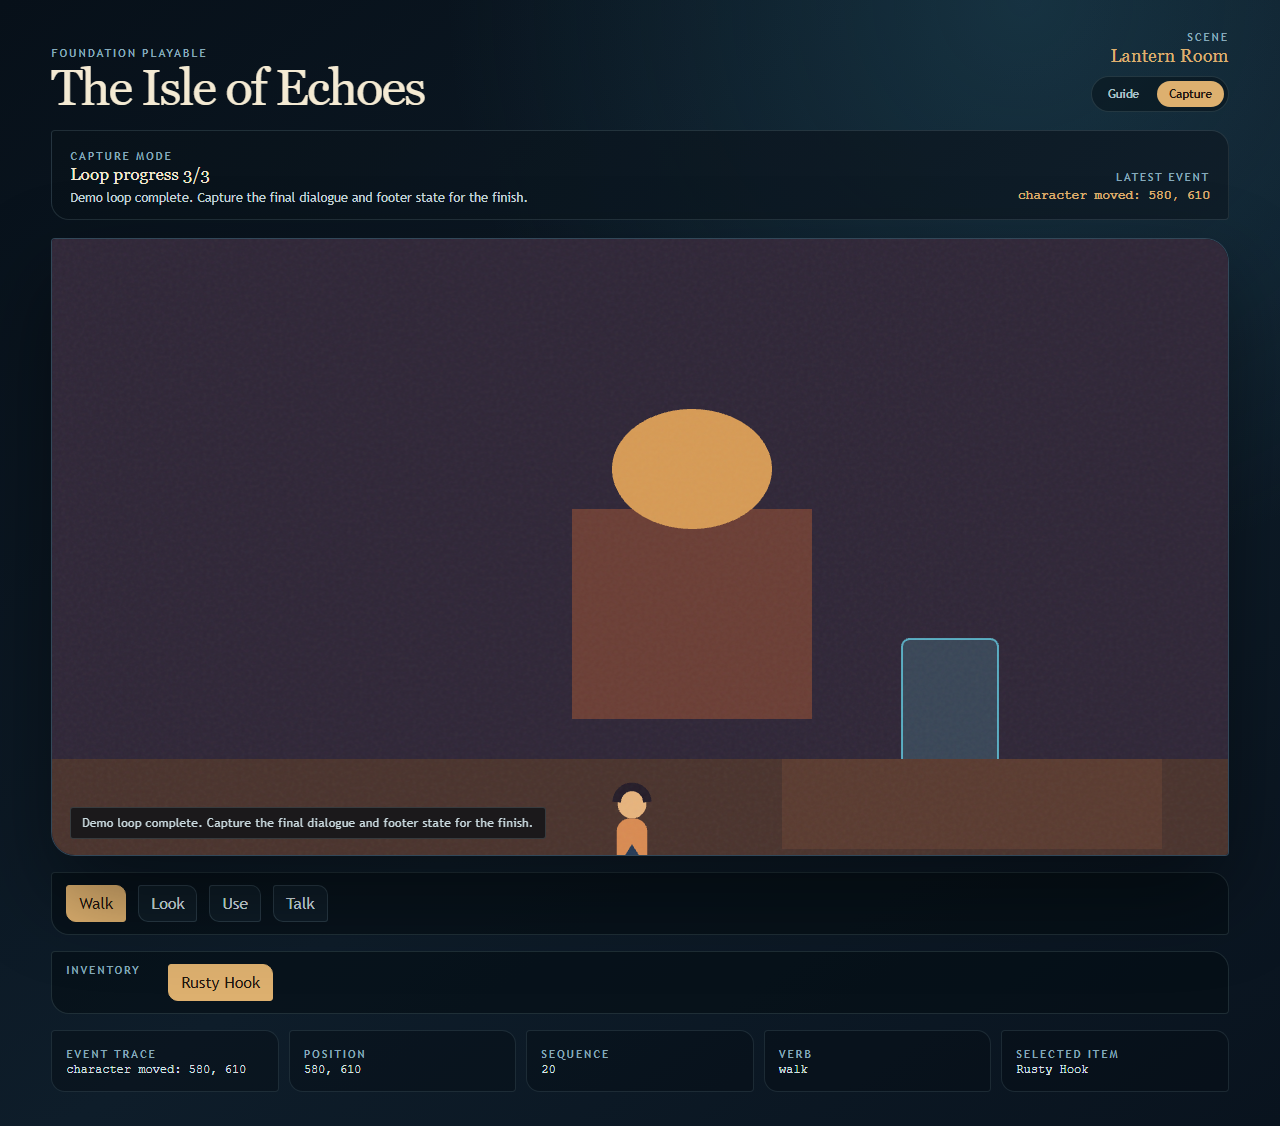
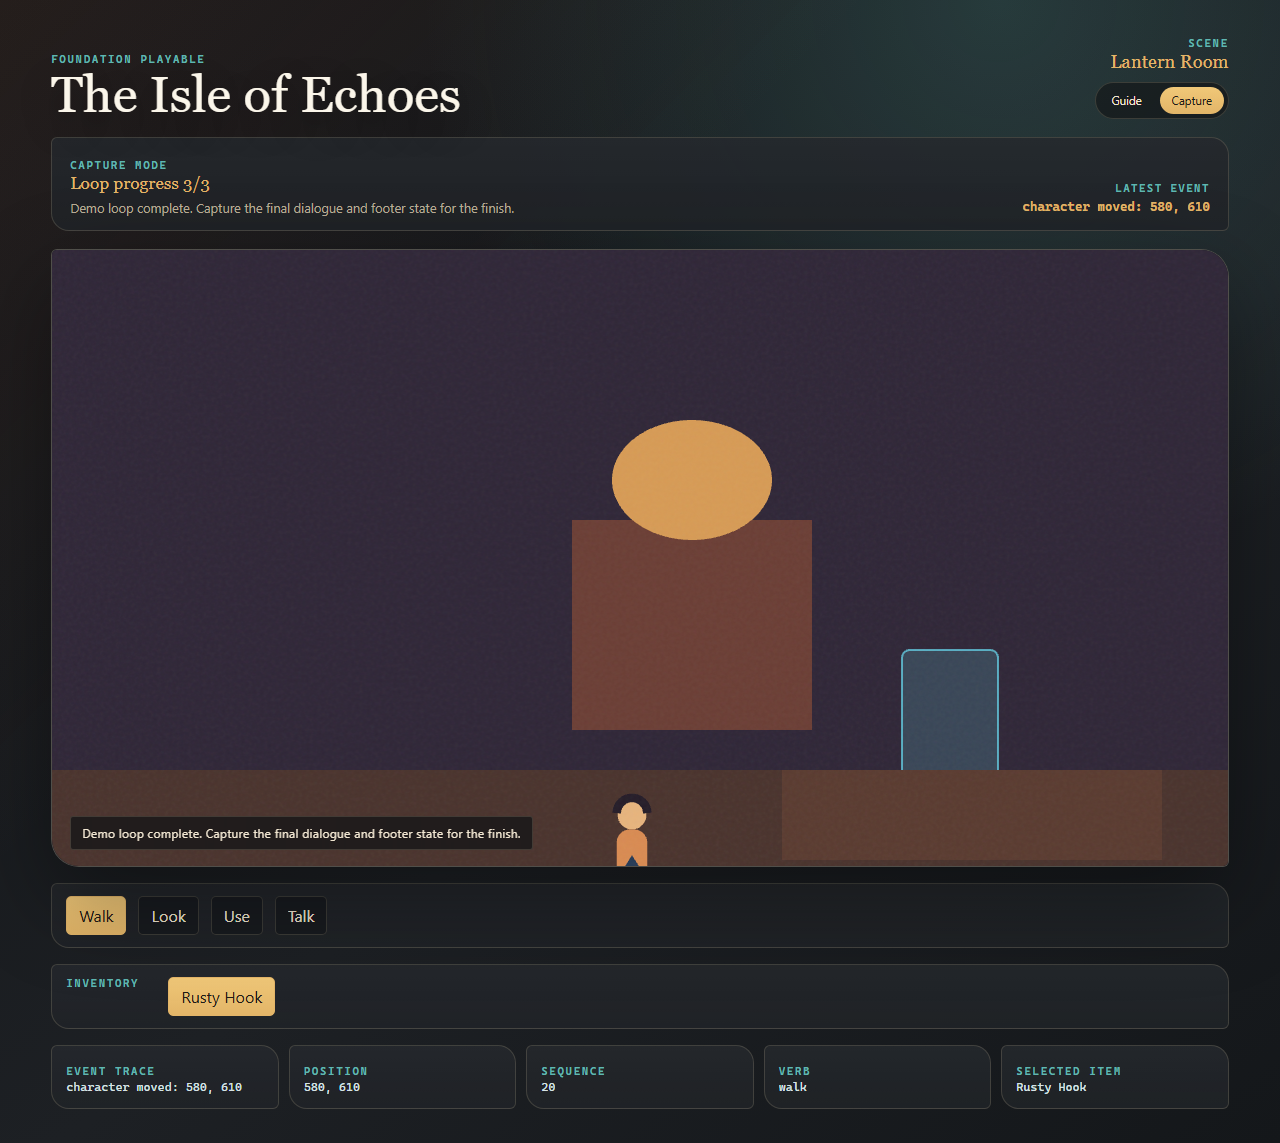
docs: update AI workflow preset guidance

diff --git a/docs/ai-prompt-pack-guide.md b/docs/ai-prompt-pack-guide.md
@@ -81,9 +81,12 @@ a time and import the resulting PNG into the project asset library.
 6. Optionally set a seed.
 7. Set a timeout long enough for the workflow. Krea/Qwen workflows can take many
    minutes on 8GB GPUs.
-8. Click **Generate And Import Asset**.
+8. Install a compatible workflow preset, then click **Save Recipe**.
+9. Click **Generate And Import Asset**.
 
-The editor queues a small text-to-image workflow through `POST /prompt`, polls
+The editor installs pre-validated ComfyUI API templates into `workflows/` and
+`workflow-templates/`, compiles approved targets into reviewable
+`generation-recipes/`, queues through `POST /prompt`, polls
 `GET /history/{prompt_id}`, downloads the generated image through `/view`, saves
 it under `assets/imported`, and registers a normal image asset document.
 
@@ -97,10 +100,56 @@ Default Creator Alpha presets are 16:9 and friendly to local 8GB GPUs:
 Avoid making latent 2048x2048 upscale the default local path. Use direct 16:9
 draft or preview dimensions first, then clean up selected regions when needed.
 
+### Workflow Presets And Recipes
+
+Creator Alpha ships installable workflow presets:
+
+- **Background 16:9 SDXL Standard 8GB** for usable scene backgrounds. Install
+  an SDXL base-compatible checkpoint in `ComfyUI/models/checkpoints`, or set
+  **Checkpoint filename / override** to the checkpoint name listed by ComfyUI.
+  The template default is `sd_xl_base_1.0.safetensors`.
+- **Background 16:9 SDXL Lightning 8GB Fast Draft** for smoke tests and fast
+  ideation with the ByteDance `sdxl_lightning_4step.safetensors` all-in-one
+  checkpoint.
+- **Background 16:9 SDXL Turbo 8GB Fast Draft** for users who already have
+  Stability AI SDXL Turbo installed, including subfolder names such as
+  `SDXL-TURBO\sd_xl_turbo_1.0_fp16.safetensors`.
+- **Prop/Character Chroma SDXL Lightning 8GB** for isolated assets that should
+  go through Asset Studio chroma cleanup or Bezier cutout.
+- **Prop/Character Chroma SDXL Turbo 8GB** for the same chroma cleanup path on
+  SDXL Turbo.
+- **Scene Inpaint Masked SD 1.5 8GB** for targets with compiled reference and
+  mask assets. Use an SD 1.5 inpainting-compatible checkpoint such as
+  `sd-v1-5-inpainting.safetensors`.
+
+The standard SDXL background preset uses DPM++ 2M, karras scheduler, 24 steps,
+and CFG 6. It is slower than Lightning/Turbo but is the default because prompt
+adherence and negative guidance matter for playable backgrounds. The distilled
+Lightning/Turbo presets are kept as draft paths only; if they produce colored
+noise, character sheets, or repeated figures, switch to the standard preset
+instead of trying to solve it with more prompt text.
+
+ComfyUI checkpoint names include subfolders. If queueing fails with
+`ckpt_name not in list`, copy one of the listed names into **Checkpoint filename
+/ override** or install the matching preset.
+
+Before queueing, the editor compacts guided prompt-pack text into a visual image
+prompt. It removes `Negative guidance` and `IP safety` bookkeeping lines from
+the positive prompt, keeps the visual style/setting/palette content, and adds
+target-specific output contracts. Scene-background targets explicitly ask for an
+environment-only background and forbid character sheets, portraits, lineups, and
+repeated figures.
+
+Installed presets declare their workflow family, output mode, supported inputs,
+binding nodes, output node, hardware notes, and limitations. Saving a recipe
+records target id, prompt pack id, style bible, workflow id, prompt, negative
+prompt, dimensions, seed/model hints, references, masks, and guide ids before
+generation.
+
 ### Custom ComfyUI API Workflows
 
-The **Workflow API JSON path** field accepts a path relative to the loaded
-project directory. For example, if the loaded project is
+The **Workflow API JSON path** field is now legacy/advanced mode. It accepts a
+path relative to the loaded project directory. For example, if the loaded project is
 `apps/starter-game/project`, copy the workflow to
 `apps/starter-game/project/workflows/image_krea2_turbo_t2i.json` and enter
 `workflows/image_krea2_turbo_t2i.json`.
@@ -109,7 +158,10 @@ Absolute paths and paths outside the loaded project are rejected in Creator
 Alpha to prevent project-file path traversal. Root-level experimental workflow
 JSON files are ignored by release checks and are not searched automatically.
 
-When a custom workflow is provided, the editor patches:
+When an installed template is selected, the editor patches only the explicit
+bindings declared by the template and validates binding nodes/inputs plus the
+output node before queueing. In legacy path mode, the editor falls back to
+heuristic patching:
 
 - `CheckpointLoaderSimple.inputs.ckpt_name` when a checkpoint override is set;
 - `EmptyLatentImage.inputs.width` and `height`;
@@ -126,10 +178,9 @@ ComfyUI server API. If a mask is supplied without a separate reference, the
 editor first uploads the mask as an image to provide the required original
 reference.
 
-The built-in text-to-image workflow has no image input nodes, so reference and
-mask assets are useful only with custom workflows that expose image loader nodes.
-The editor blocks queueing linked reference or mask targets until a custom
-workflow API JSON path is set, preventing a plain text-to-image job from
+Reference and mask assets require an installed template or legacy workflow that
+declares image loader bindings. The editor blocks mask queueing when the selected
+template does not support `mask-image`, preventing a plain text-to-image job from
 silently ignoring those inputs.
 
 If the workflow has no `CLIPTextEncode` nodes but has `CheckpointLoaderSimple`

diff --git a/docs/troubleshooting.md b/docs/troubleshooting.md
@@ -54,8 +54,13 @@ in place.
 ## ComfyUI Does Not Queue
 
 - Start ComfyUI and confirm `http://127.0.0.1:8188` opens.
-- Export the workflow in **API** format.
-- Put the workflow JSON path in **Workflow API JSON path**.
+- Install a compatible workflow preset in the AI workspace, or export a workflow
+  in **API** format and use **Workflow API JSON path (legacy/advanced)**.
+- Save a generation recipe before queueing when you want provenance to include
+  `workflowId` and `recipeId`.
+- For the 8GB presets, place `sdxl_lightning_4step.safetensors` or an SD 1.5
+  inpainting checkpoint in `ComfyUI/models/checkpoints`, then select it in
+  **Checkpoint filename / override** if your local filename differs.
 - Leave checkpoint override empty for workflows that already load their own
   model, especially Krea/Qwen-style exports.
 - Watch the editor's **ComfyUI status** card and the ComfyUI queue/history.
@@ -85,17 +90,19 @@ files cannot silently depend on machine-local locations outside the project.
 
 ## Reference Or Mask Inputs Are Ignored
 
-Reference and mask assets only affect custom workflows that expose image loader
-nodes. Check the selected target and workflow:
+Reference and mask assets only affect installed templates or legacy workflows
+that expose image loader nodes. Check the selected target and workflow:
 
 - the target should show **Reference workflow expected** or
   **Inpaint workflow expected** in the AI workspace;
-- **Workflow API JSON path** must be set before queueing reference or mask
+- an installed compatible workflow template should be selected, or **Workflow API
+  JSON path (legacy/advanced)** must be set before queueing reference or mask
   targets;
 - the exported ComfyUI workflow should contain `LoadImage`, `LoadImageMask`, or
   mask-like `LoadImage` nodes;
-- after queueing, generated asset provenance should include `referenceAssetIds`,
-  `maskAssetId`, and `parentAssetIds`.
+- after queueing, generated asset provenance should include `workflowId`,
+  `recipeId`, `referenceAssetIds`, `maskAssetId`, and `parentAssetIds` where
+  applicable.
 
 If the editor reports that image inputs require a custom workflow, the built-in
 text-to-image path would ignore those files. Export or select an img2img/inpaint
@@ -105,6 +112,10 @@ workflow first.
 
 - Use **Background Draft 16:9** (`1024x576`) or **Background Draft Plus 16:9**
   (`1152x648`) for iteration.
+- For usable scene backgrounds, prefer **Background 16:9 SDXL Standard 8GB**.
+  Lightning/Turbo presets are fast draft paths; repeated character sheets,
+  colored noise, or abstract patterns usually mean the distilled checkpoint is
+  not suitable for that target.
 - Avoid latent 2048x2048 upscales in the default local workflow.
 - Increase **Timeout minutes** for Krea/Qwen-style workflows.
 - Leave checkpoint override empty when the workflow already loads its models.

diff --git a/docs/release-notes-creator-alpha.md b/docs/release-notes-creator-alpha.md
@@ -27,11 +27,16 @@ comfortable with local developer tools.
   and ComfyUI image import.
 - AI workflow documents for style bibles, workflow templates, generation
   recipes, and generated asset provenance.
-- ComfyUI custom workflow patching for prompt, negative prompt, seed,
-  dimensions, checkpoint, output prefix, reference images, and mask images.
-- Generated image asset provenance for workflow family, prompt pack target,
-  linked reference and mask assets, parent asset lineage, dimensions, warnings,
-  model, and seed.
+- ComfyUI preset install for SDXL standard 8GB background T2I, SDXL
+  Lightning/Turbo fast-draft background T2I, SDXL Lightning/Turbo 8GB
+  prop/character chroma, and SD 1.5 8GB masked inpaint, with recipe-first
+  generation and legacy workflow path fallback.
+- ComfyUI template binding patching for prompt, negative prompt, seed,
+  dimensions, checkpoint, output prefix, reference images, mask images, and
+  explicit output nodes.
+- Generated image asset provenance for workflow id, recipe id, workflow family,
+  prompt pack target, linked reference and mask assets, parent asset lineage,
+  dimensions, warnings, model, and seed.
 - Inspector asset import/drop, pickup image assets, and chroma cleanup for flat
   blue/green backgrounds.
 
@@ -42,9 +47,9 @@ comfortable with local developer tools.
   UX is still being completed.
 - Transparent PNG quality depends on the selected ComfyUI workflow or a clean
   flat chroma source for editor cleanup.
-- Reference and mask inputs require a custom ComfyUI API workflow with
-  compatible image loader nodes; the built-in text-to-image path does not use
-  image inputs.
+- Reference and mask inputs require an installed ComfyUI template or legacy API
+  workflow with compatible image loader nodes; plain text-to-image paths do not
+  use image inputs.
 - Flow graph editing, hosted demo, marketing site, web export, and npm SDK
   publishing are outside this release.
 - AI provider keys are optional; OpenAI requires API platform access and is not

diff --git a/docs/creator-alpha-release-issue.md b/docs/creator-alpha-release-issue.md
@@ -16,7 +16,8 @@ clone, run, inspect, modify, validate, and package without paid provider keys.
   packaging.
 - `pnpm test:e2e` passes or any failure is explicitly documented before
   tagging.
-- `apps/starter-game/project` validates as the minimal clean project.
+- `apps/starter-game/project` validates as the minimal clean gameplay project
+  with curated ComfyUI workflow preset fixtures.
 - `apps/sample-game/project` validates as the public demo project.
 - The packaged Windows editor opens and previews the sample without the Vite dev
   server.
@@ -41,9 +42,10 @@ Record the result here before tagging:
 - [ ] Chroma cleanup saved as a processed PNG asset.
 - [ ] Mock prompt pack generated.
 - [ ] LM Studio prompt pack generated, if LM Studio is installed.
-- [ ] ComfyUI text-to-image asset generated, if ComfyUI is installed.
-- [ ] ComfyUI reference or mask workflow smoke-tested, if a compatible workflow
-  is available.
+- [ ] ComfyUI preset installed, recipe saved, and text-to-image asset generated,
+  if ComfyUI is installed.
+- [ ] ComfyUI chroma or inpaint workflow smoke-tested, if a compatible target is
+  available.
 - [ ] Character Gym can preview a spritesheet target.
 - [ ] Build validation run from the editor.
 - [ ] Browser preview opened.
@@ -57,8 +59,9 @@ Record the result here before tagging:
 - Flow graph editing is not a full node-graph editor yet.
 - Transparent PNG quality depends on the selected ComfyUI workflow or clean
   chroma cleanup.
-- Reference and mask image inputs require a compatible custom ComfyUI API
-  workflow; the built-in text-to-image path does not consume image inputs.
+- Reference and mask image inputs require a compatible installed ComfyUI
+  template or legacy API workflow; plain text-to-image paths do not consume image
+  inputs.
 - OpenAI support requires API platform billing; ChatGPT subscriptions do not
   cover API calls.
 - Hosted demo, public website, web export, and SDK publishing are later
@@ -78,7 +81,8 @@ Record the result here before tagging:
   `pnpm check` outside restricted sandboxes before blocking the release.
 - **Provider confusion**: local AI tools are optional. Keep mock provider paths
   working and call out that models/weights are user-installed.
-- **Workflow mismatch**: custom ComfyUI exports vary. State that only compatible
-  API workflows with expected loader nodes can use reference/mask inputs.
+- **Workflow mismatch**: custom ComfyUI exports vary. State that only installed
+  templates or compatible API workflows with expected loader nodes can use
+  reference/mask inputs.
 - **Stale demo asset**: refresh or explicitly accept the checked-in screenshot
   before tagging.

diff --git a/README.md b/README.md
@@ -73,8 +73,8 @@ the player in your system browser.
 3. In **Player**, choose the player asset or animation pack and adjust walk speed.
 4. In **AI**, generate a mock prompt pack, then review the background, prop,
    character, and animation prompts.
-5. If ComfyUI is running, choose a project-relative workflow API JSON and
-   generate/import one image asset.
+5. If ComfyUI is running, install a workflow preset, save a generation recipe,
+   and generate/import one image asset.
 6. Drop or import an image in an inspector, then try **Remove Background** on a
    flat chroma output.
 7. Open **Build** and run validation.
@@ -87,17 +87,17 @@ Creator Alpha does not require paid provider keys.
 - **Mock deterministic** works offline and is the default open-source path.
 - **LM Studio local** can draft prompt packs through a local OpenAI-compatible
   server.
-- **ComfyUI local** can generate image assets from exported API workflows.
-  Custom workflow API exports can receive linked reference and mask assets
-  through `LoadImage` / `LoadImageMask` nodes.
+- **ComfyUI local** can generate image assets from installed 8GB-oriented
+  workflow presets and reviewable recipes. Legacy exported API workflows remain
+  available for advanced users.
 - **OpenAI** is optional and requires an API platform key; ChatGPT subscriptions
   do not replace API billing.
 
 AI output is treated as draft authoring material. Prompt packs are saved only
 after approval, image generation imports normal asset documents, and provider
 provenance stays visible. Generated image assets record prompt, seed, model,
-workflow family, references, masks, parent asset lineage, warnings, and prompt
-pack target links when available.
+workflow id, recipe id, workflow family, references, masks, parent asset
+lineage, warnings, and prompt pack target links when available.
 
 ## Verify
 

diff --git a/docs/release-checklist.md b/docs/release-checklist.md
@@ -17,7 +17,8 @@ Expected result:
 
 - no unintended project files, generated assets, workflow exports, logs, or test
   artifacts in `git status`;
-- `starter-game` validates as a minimal project;
+- `starter-game` validates as a minimal gameplay project with only curated
+  workflow preset fixtures;
 - `sample-game` validates as the public demo.
 
 Notes:
@@ -52,10 +53,11 @@ Notes:
    verify it is assigned as a new asset without overwriting the source.
 11. In **AI**, generate a mock prompt pack.
 12. With LM Studio running, generate a local prompt pack.
-13. With ComfyUI running, generate and import one text-to-image asset.
-14. With a custom ComfyUI API workflow, queue one target with a linked reference
-    or mask asset and confirm provenance records `referenceAssetIds`,
-    `maskAssetId`, and `parentAssetIds`.
+13. With ComfyUI running, install the background preset, save a recipe, then
+    generate and import one text-to-image asset.
+14. Install the chroma or inpaint preset, queue one target with linked reference
+    or mask assets when available, and confirm provenance records `workflowId`,
+    `recipeId`, `referenceAssetIds`, `maskAssetId`, and `parentAssetIds`.
 15. Send a `sprite-sheet` or `animation-reference` target to Asset Studio and verify Character Gym can slice it.
 16. In **Build**, run validation.
 17. Use **Play from here** and **Browser** preview.

diff --git a/docs/roadmap.md b/docs/roadmap.md
@@ -58,9 +58,12 @@ Turn AI support into a bounded local workflow engine, not a prompt-only panel.
   targets into explicit asset-generation recipes.
 - Add a workflow registry for approved ComfyUI API templates with declared
   inputs, patch bindings, output mode, hardware profile, and limitations.
+- Ship the first preset slice as SDXL Lightning 8GB background T2I,
+  SDXL Lightning 8GB prop/character chroma, and SD 1.5 8GB masked scene
+  inpaint; keep video and automated spritesheet workflows out of this milestone.
 - Store generated-asset provenance: prompt, negative prompt, seed, model,
-  workflow id, target id, dimensions, references, masks, warnings, and parent
-  asset lineage.
+  workflow id, recipe id, workflow family, target id, dimensions, references,
+  masks, guide ids, warnings, and parent asset lineage.
 - Support RTX 3070 8GB-friendly draft and preview presets for 16:9 backgrounds
   and isolated prop or character outputs.
 - Upload reference images and masks to ComfyUI for img2img and inpaint workflows

diff --git a/docs/project-format.md b/docs/project-format.md
@@ -12,7 +12,7 @@ animation-packs/<id>.animation-pack.json
 prompt-packs/<id>.prompt-pack.json
 style-bibles/<id>.style-bible.json
 workflow-templates/<id>.workflow-template.json
-generation-recipes/<id>.recipe.json
+generation-recipes/<id>.generation-recipe.json
 locales/<locale>.json
 ```
 